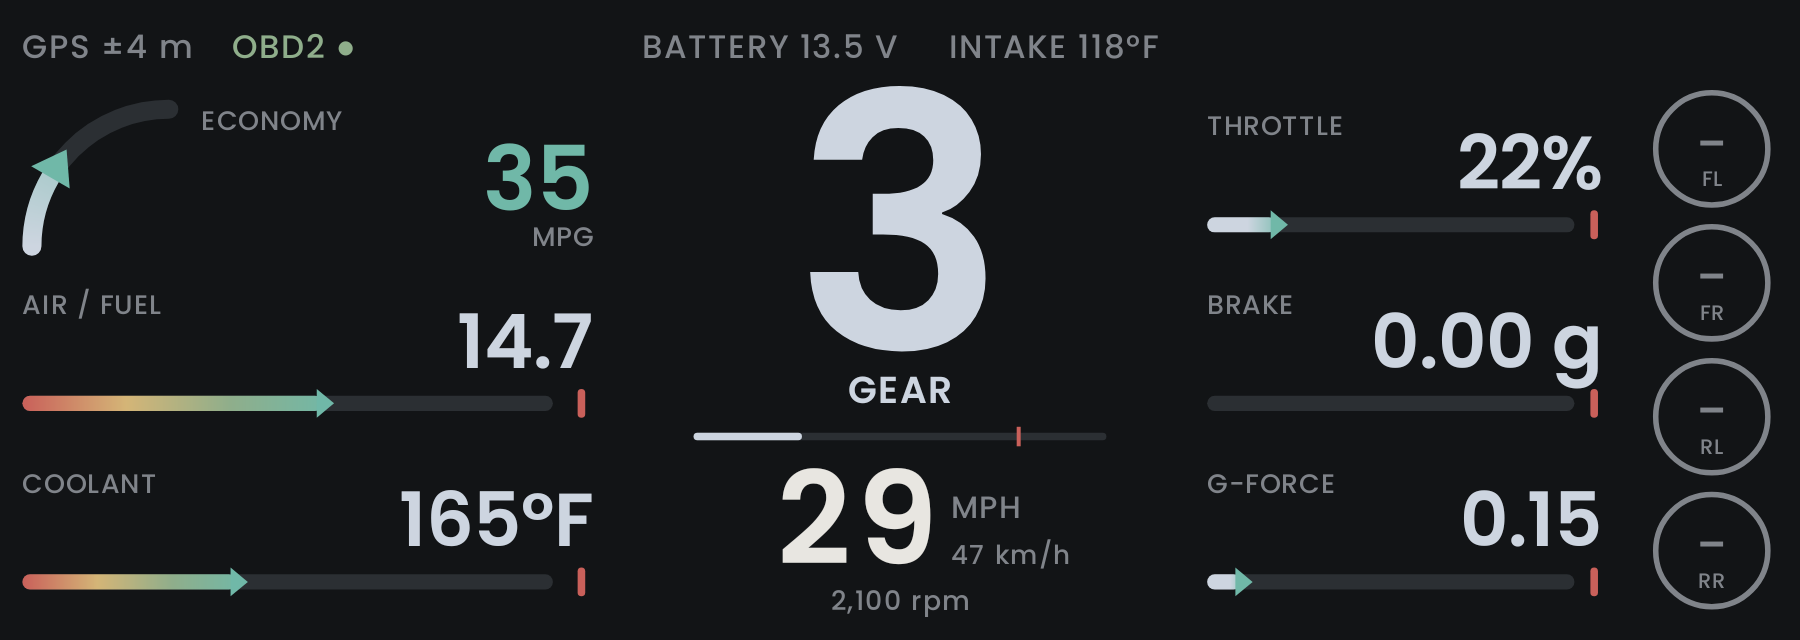
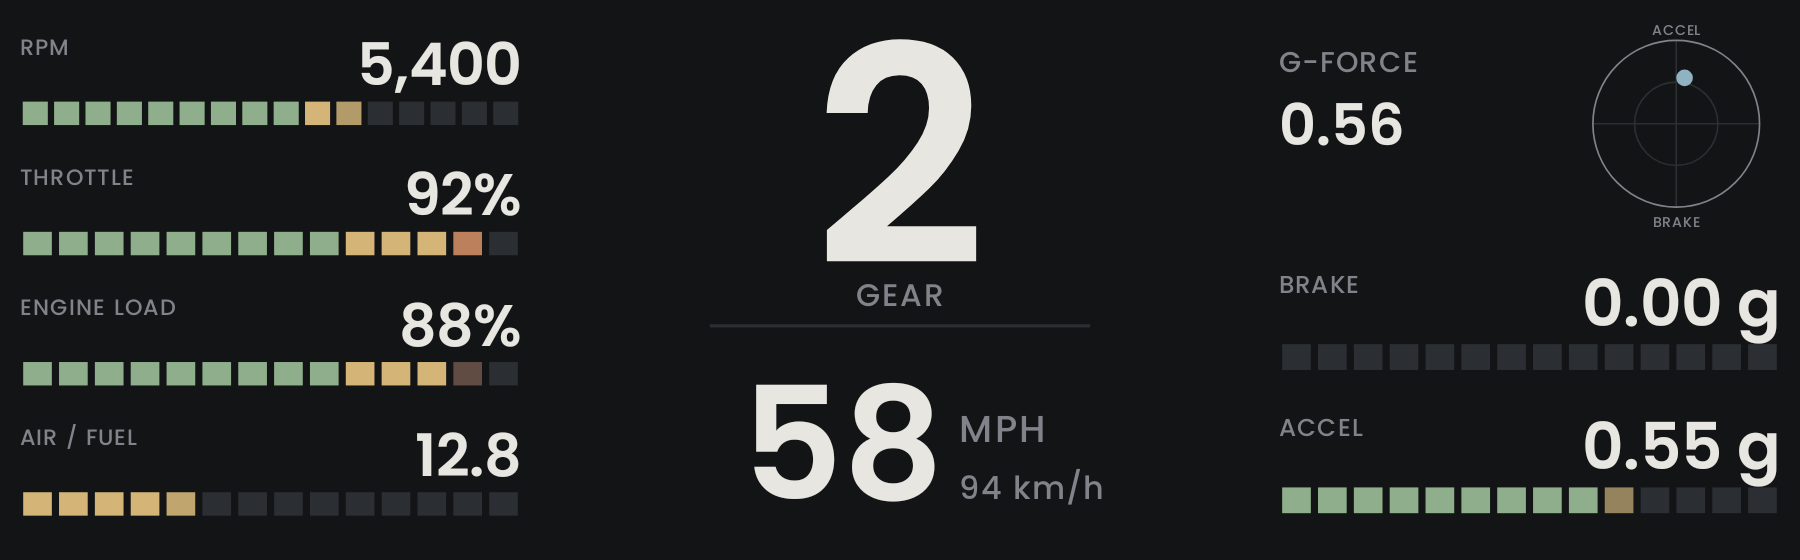
Sport screen: back to the 0.8 bar-stack look, performance readings only
RPM, throttle, engine load and air/fuel on the left; gear and speed in the
middle; g-force, braking and acceleration on the right. Temperatures,
battery, intake air, tires, economy and the status line are gone from it.
The shift strip along the top now shows on Sport too.

Claude-Session: https://claude.ai/code/session_01N4dMX8PfpVf6pnmBC8x2KL

diff --git a/app/src/main/java/io/github/byjoelsamuel/drivesanity/ClusterPainter.kt b/app/src/main/java/io/github/byjoelsamuel/drivesanity/ClusterPainter.kt
@@ -2,13 +2,8 @@ package io.github.byjoelsamuel.drivesanity
 
 import android.content.Context
 import android.graphics.Canvas
-import android.graphics.Color
-import android.graphics.LinearGradient
 import android.graphics.Paint
-import android.graphics.Path
 import android.graphics.RectF
-import android.graphics.Shader
-import android.graphics.SweepGradient
 import android.os.SystemClock
 import io.github.byjoelsamuel.drivesanity.map.MapPainter
 import io.github.byjoelsamuel.drivesanity.nav.Nav
@@ -185,74 +180,39 @@ class ClusterPainter(context: Context) {
     }
 
     // ---------------------------------------------------------------------------------------
-    // Sport: laid out like a supercar's digital cluster. Economy with a small arc, then the air/fuel
-    // ratio and coolant on the left; a huge gear in the middle with a thin rev line under it; throttle,
-    // brake and g-force on the right; and the tires as a column of rings.
+    // Sport: the Gauges look with performance readings only. Engine on the left, gear and speed in
+    // the middle, g-force, braking and acceleration on the right. No temperatures, battery or tires.
     // ---------------------------------------------------------------------------------------
-
-    private val pale = Color.rgb(205, 213, 224)
-    private val teal = Color.rgb(112, 184, 168)
-    private val path = Path()
 
     fun drawSport(c: Canvas, r: RectF, s: Snapshot, units: Units) {
         background(c, r)
         val pad = r.height() * 0.035f
-        val inner = RectF(r.left + pad, r.top + pad, r.right - pad, r.bottom - pad)
-        val h = inner.height()
-        val top = RectF(inner.left, inner.top, inner.right, inner.top + h * 0.07f)
-        status(c, top, s)
-        // Battery and intake air don't get a row here; they sit in the middle of the top line.
-        label(top.height() * 0.78f, Colors.DIM, Paint.Align.CENTER)
-        val volts = s.volts?.let { "%.1f V".format(it) } ?: "–"
-        c.drawText("BATTERY $volts     INTAKE ${tempText(s.intakeC, units)}", top.centerX(), top.bottom - top.height() * 0.15f, text)
-        val body = RectF(inner.left, inner.top + h * 0.1f, inner.right, inner.bottom)
-        val w = body.width()
-        fun col(x0: Float, x1: Float) = RectF(body.left + w * x0, body.top, body.left + w * x1, body.bottom)
-        sportLeft(c, col(0f, 0.325f), s, units)
-        sportCentre(c, col(0.36f, 0.64f), s, units)
-        sportRight(c, col(0.675f, 0.9f), s, units)
-        tireRings(c, col(0.925f, 1f), s, units)
+        val body = RectF(r.left + pad, r.top + pad, r.right - pad, r.bottom - pad)
+        val gap = body.width() * 0.035f
+        val sideW = body.width() * 0.285f
+        val left = RectF(body.left, body.top, body.left + sideW, body.bottom)
+        val right = RectF(body.right - sideW, body.top, body.right, body.bottom)
+        val mid = RectF(left.right + gap, body.top, right.left - gap, body.bottom)
+        sportLeft(c, left, s)
+        sportCentre(c, mid, s, units)
+        sportRight(c, right, s)
     }
 
-    private fun sportLeft(c: Canvas, b: RectF, s: Snapshot, units: Units) {
-        val rowH = b.height() / 3f
-        fun row(i: Int) = RectF(b.left, b.top + i * rowH, b.right, b.top + (i + 1) * rowH)
-        // Economy: a small arc and a big teal number.
-        val e = row(0)
-        val frac = s.fuelLper100?.div(20f) ?: s.fuelLph?.div(6f)
-        val shown = units.economyText(s.fuelLper100, s.fuelLph)
-        val space = shown.indexOf(' ')
-        val num = if (space > 0) shown.substring(0, space) else shown
-        val unit = if (space > 0) shown.substring(space + 1) else ""
-        arc(c, RectF(e.left, e.top + rowH * 0.1f, e.left + rowH * 0.82f, e.top + rowH * 0.1f + rowH * 0.82f), frac)
-        val tx = e.left + rowH * 1.0f
-        label(rowH * 0.15f)
-        c.drawText("ECONOMY", tx, e.top + rowH * 0.27f, text)
-        number(rowH * 0.5f, if (frac == null) Colors.DIM else teal, Paint.Align.RIGHT)
-        c.drawText(num, e.right, e.top + rowH * 0.72f, text)
-        label(rowH * 0.15f, Colors.DIM, Paint.Align.RIGHT)
-        c.drawText(unit.uppercase(), e.right, e.top + rowH * 0.92f, text)
-
-        val afr = if (s.petrol) s.lambda?.let { it * 14.7f } else null
-        statRow(c, row(1), "AIR / FUEL", afr?.let { "%.1f".format(it) } ?: "–", pale, afr?.let { (it - 10f) / 8f }, warm = true)
-        val cool = s.coolantC
-        val coolColor = if (cool != null && cool > 105f) Colors.RED else pale
-        statRow(c, row(2), "COOLANT", tempText(cool, units), coolColor, cool?.let { (it - 40f) / 80f }, warm = true)
-    }
-
-    private fun sportRight(c: Canvas, b: RectF, s: Snapshot, units: Units) {
-        val rowH = b.height() / 3f
-        fun row(i: Int) = RectF(b.left, b.top + i * rowH, b.right, b.top + (i + 1) * rowH)
+    private fun sportLeft(c: Canvas, b: RectF, s: Snapshot) {
+        val rowH = b.height() / 4f
+        fun row(i: Int) = RectF(b.left, b.top + i * rowH, b.right, b.top + (i + 1) * rowH - rowH * 0.1f)
+        val rpm = s.rpm
+        barRow(c, row(0), "RPM", rpm?.let { "%,d".format((it / 50f).roundToInt() * 50) } ?: if (s.obdLive) "–" else "no OBD2", rpm?.div(Revs.MAX), 16, ::rpmColor)
         val thr = s.throttlePct
-        statRow(c, row(0), "THROTTLE", thr?.let { "${it.roundToInt()}%" } ?: "–", pale, thr?.div(100f), warm = false)
-        val g = s.g
-        val brake = g?.brake ?: 0f
-        val brakeColor = if (g == null) pale else Colors.brake(BrakeLevel.of(brake)).let { if (BrakeLevel.of(brake) == BrakeLevel.NONE) pale else it }
-        statRow(c, row(1), "BRAKE", if (g == null) "–" else "%.2f g".format(brake), brakeColor, if (g == null) null else (brake / 0.8f).coerceIn(0f, 1f), warm = false)
-        statRow(c, row(2), "G-FORCE", g?.let { "%.2f".format(it.total) } ?: "–", pale, g?.let { (it.total / 1.2f).coerceIn(0f, 1f) }, warm = false)
+        barRow(c, row(1), "THROTTLE", thr?.let { "${it.roundToInt()}%" } ?: "–", thr?.div(100f), 14, ::rampColor)
+        val load = s.loadPct
+        barRow(c, row(2), "ENGINE LOAD", load?.let { "${it.roundToInt()}%" } ?: "–", load?.div(100f), 14, ::rampColor)
+        // 14.7 is ideal for petrol; below it the engine is running rich, above it lean.
+        val afr = if (s.petrol) s.lambda?.let { it * 14.7f } else null
+        barRow(c, row(3), "AIR / FUEL", afr?.let { "%.1f".format(it) } ?: "–", afr?.let { (it - 10f) / 8f }, 14, { f -> if (f < 0.4f) Colors.SAND else Colors.GOOD })
     }
 
-    /** The gear, huge, with "GEAR" under it, a thin line that is the rev counter, and the speed. */
+    /** The gear, huge, with the speed under it. The gear goes sand near the redline and flashes red at the shift point. */
     private fun sportCentre(c: Canvas, b: RectF, s: Snapshot, units: Units) {
         val h = b.height()
         val cx = b.centerX()
@@ -263,133 +223,35 @@ class ClusterPainter(context: Context) {
             s.gear == null -> Colors.GRID
             level == 2 -> if (flashOn) Colors.RED else Colors.GRID
             level == 1 -> Colors.SAND
-            else -> pale
+            else -> Colors.FG
         }
-        number(h * (if (s.gear == null) 0.3f else 0.66f), gearColor, Paint.Align.CENTER)
-        c.drawText(s.gearText, cx, b.top + h * 0.5f, text)
-        label(h * 0.07f, pale, Paint.Align.CENTER)
-        text.typeface = numbers
-        c.drawText(if (s.gearless) "NO FIXED GEARS" else "GEAR", cx, b.top + h * 0.6f, text)
-
-        // The rev line: fills left to right, sage, then sand, then red at the redline.
-        val line = RectF(b.left + b.width() * 0.08f, b.top + h * 0.655f, b.right - b.width() * 0.08f, b.top + h * 0.655f + max(4f, h * 0.014f))
+        number(h * (if (s.gear == null) 0.3f else 0.58f), gearColor, Paint.Align.CENTER)
+        c.drawText(s.gearText, cx, b.top + h * 0.47f, text)
+        label(h * 0.06f, Colors.DIM, Paint.Align.CENTER)
+        c.drawText(if (s.gearless) "NO FIXED GEARS" else "GEAR", cx, b.top + h * 0.55f, text)
         fill.color = Colors.GRID
-        c.drawRoundRect(line, line.height() / 2, line.height() / 2, fill)
-        val rpm = s.rpm
-        if (rpm != null) {
-            val f = (rpm / Revs.MAX).coerceIn(0f, 1f)
-            fill.color = Colors.rpm(rpm).let { if (level == 0) pale else it }
-            c.drawRoundRect(RectF(line.left, line.top, line.left + line.width() * f, line.bottom), line.height() / 2, line.height() / 2, fill)
-            // Where the redline is, so you can see how far off it is.
-            fill.color = Colors.RED
-            val rx = line.left + line.width() * (Revs.REDLINE / Revs.MAX)
-            c.drawRect(rx - 2f, line.top - line.height() * 0.8f, rx + 2f, line.bottom + line.height() * 0.8f, fill)
-        }
-
-        speedGroup(c, b, s, units, size = h * 0.24f, baseline = b.top + h * 0.9f, centred = true)
-        label(h * 0.05f, Colors.DIM, Paint.Align.CENTER)
-        c.drawText(rpm?.let { "%,d rpm".format((it / 50f).roundToInt() * 50) } ?: "no OBD2", cx, b.top + h * 0.985f, text)
+        c.drawRect(cx - b.width() * 0.3f, b.top + h * 0.585f, cx + b.width() * 0.3f, b.top + h * 0.585f + max(2f, h * 0.006f), fill)
+        speedGroup(c, b, s, units, size = h * 0.3f, baseline = b.top + h * 0.92f, centred = true)
     }
 
-    /**
-     * A small caption, a value in big pale numbers on the right, and a bar under them that ends in an
-     * arrowhead with a short red tick at the far end of the track. [warm] colours the bar from red
-     * through sand to sage; otherwise it runs from pale to teal.
-     */
-    private fun statRow(c: Canvas, b: RectF, name: String, value: String, valueColor: Int, frac: Float?, warm: Boolean) {
+    private fun sportRight(c: Canvas, b: RectF, s: Snapshot) {
         val h = b.height()
-        label(h * 0.15f)
-        c.drawText(name, b.left, b.top + h * 0.3f, text)
-        number(h * 0.42f, if (frac == null) Colors.DIM else valueColor, Paint.Align.RIGHT)
-        c.drawText(value, b.right, b.top + h * 0.6f, text)
+        val scopeSize = min(b.width() * 0.5f, h * 0.4f)
+        val g = s.g
+        label(h * 0.055f)
+        c.drawText("G-FORCE", b.left, b.top + h * 0.1f, text)
+        number(h * 0.11f, if (g == null) Colors.DIM else Colors.FG)
+        c.drawText(g?.let { "%.2f".format(it.total) } ?: "–", b.left, b.top + h * 0.24f, text)
+        scope(c, RectF(b.right - scopeSize, b.top, b.right, b.top + scopeSize), s)
 
-        val thick = h * 0.085f
-        val y = b.top + h * 0.8f
-        val track = RectF(b.left, y - thick / 2, b.right - b.width() * 0.07f, y + thick / 2)
-        fill.shader = null
-        fill.color = Colors.GRID
-        c.drawRoundRect(track, thick / 2, thick / 2, fill)
-        // The red tick at the end of the track.
-        fill.color = Colors.RED
-        val tx = b.right - b.width() * 0.02f
-        c.drawRoundRect(RectF(tx - thick * 0.25f, y - thick * 0.95f, tx + thick * 0.25f, y + thick * 0.95f), thick * 0.25f, thick * 0.25f, fill)
-        if (frac == null) return
-        val len = track.width() * frac.coerceIn(0f, 1f)
-        if (len < thick) return
-        val head = thick * 1.9f
-        val bodyEnd = track.left + len - head * 0.4f
-        val colors = if (warm) intArrayOf(Colors.RED, Colors.SAND, Colors.GOOD, teal) else intArrayOf(pale, pale, teal)
-        fill.shader = LinearGradient(track.left, 0f, track.left + len, 0f, colors, null, Shader.TileMode.CLAMP)
-        c.drawRoundRect(RectF(track.left, track.top, bodyEnd, track.bottom), thick / 2, thick / 2, fill)
-        path.reset()
-        path.moveTo(track.left + len, y)
-        path.lineTo(bodyEnd - head * 0.2f, y - head * 0.5f)
-        path.lineTo(bodyEnd - head * 0.2f, y + head * 0.5f)
-        path.close()
-        fill.color = teal
-        fill.shader = null
-        c.drawPath(path, fill)
-    }
-
-    /** A quarter arc, from the left round to the top, that fills as [frac] goes up. */
-    private fun arc(c: Canvas, box: RectF, frac: Float?) {
-        val thick = box.height() * 0.13f
-        stroke.strokeWidth = thick
-        stroke.strokeCap = Paint.Cap.ROUND
-        val oval = RectF(box.left + thick / 2, box.top + thick / 2, box.right * 2 - box.left - thick / 2, box.bottom * 2 - box.top - thick / 2)
-        stroke.shader = null
-        stroke.color = Colors.GRID
-        c.drawArc(oval, 180f, 90f, false, stroke)
-        if (frac != null && frac > 0.02f) {
-            val sweep = 90f * frac.coerceIn(0f, 1f)
-            val cx = oval.centerX()
-            val cy = oval.centerY()
-            stroke.shader = SweepGradient(cx, cy, intArrayOf(pale, pale, teal, teal), floatArrayOf(0f, 0.5f, 0.75f, 1f))
-            c.drawArc(oval, 180f, sweep, false, stroke)
-            stroke.shader = null
-            // The arrowhead at the end of the arc.
-            val rad = oval.width() / 2
-            val a = Math.toRadians((180f + sweep).toDouble())
-            val px = cx + rad * kotlin.math.cos(a).toFloat()
-            val py = cy + rad * kotlin.math.sin(a).toFloat()
-            val tx = -kotlin.math.sin(a).toFloat()
-            val ty = kotlin.math.cos(a).toFloat()
-            val nx = kotlin.math.cos(a).toFloat()
-            val ny = kotlin.math.sin(a).toFloat()
-            val hs = thick * 1.3f
-            path.reset()
-            path.moveTo(px + tx * hs * 1.3f, py + ty * hs * 1.3f)
-            path.lineTo(px + nx * hs * 0.9f, py + ny * hs * 0.9f)
-            path.lineTo(px - nx * hs * 0.9f, py - ny * hs * 0.9f)
-            path.close()
-            fill.color = teal
-            c.drawPath(path, fill)
-        }
-        stroke.strokeCap = Paint.Cap.BUTT
-    }
-
-    /** The four tire pressures as a column of rings, like the warning lamps down the side of the cluster. */
-    private fun tireRings(c: Canvas, b: RectF, s: Snapshot, units: Units) {
-        val cell = b.height() / 4f
-        val d = min(b.width(), cell * 0.92f)
-        for (i in 0 until 4) {
-            val psi = s.tires.getOrNull(i)
-            val color = when {
-                psi == null -> Colors.DIM
-                Tpms.level(psi) == 2 -> Colors.RED
-                Tpms.level(psi) == 1 -> Colors.SAND
-                else -> teal
-            }
-            val cx = b.centerX()
-            val cy = b.top + cell * (i + 0.5f)
-            stroke.strokeWidth = max(2f, d * 0.045f)
-            stroke.color = color
-            c.drawCircle(cx, cy, d / 2 - stroke.strokeWidth, stroke)
-            number(d * 0.34f, if (psi == null) Colors.DIM else pale, Paint.Align.CENTER)
-            c.drawText(Tpms.text(psi, units), cx, cy + d * 0.07f, text)
-            label(d * 0.17f, Colors.DIM, Paint.Align.CENTER)
-            c.drawText(Tpms.NAMES[i], cx, cy + d * 0.3f, text)
-        }
+        val rowsTop = b.top + scopeSize + h * 0.05f
+        val rowH = (b.bottom - rowsTop) / 2f
+        fun row(i: Int) = RectF(b.left, rowsTop + i * rowH, b.right, rowsTop + (i + 1) * rowH - rowH * 0.1f)
+        val brake = g?.brake ?: 0f
+        val brakeColor = Colors.brake(BrakeLevel.of(brake)).let { if (BrakeLevel.of(brake) == BrakeLevel.NONE) Colors.GOOD else it }
+        barRow(c, row(0), "BRAKE", if (g == null) "–" else "%.2f g".format(brake), if (g == null) null else (brake / 0.8f).coerceIn(0f, 1f), 14, { f -> if (f < 0.3f) Colors.GOOD else brakeColor })
+        val accel = g?.let { maxOf(0f, it.lon) } ?: 0f
+        barRow(c, row(1), "ACCEL", if (g == null) "–" else "%.2f g".format(accel), if (g == null) null else (accel / 0.8f).coerceIn(0f, 1f), 14, ::rampColor)
     }
 
     /** A caption and a big value on one line, and a row of bar segments under them. */

diff --git a/app/src/main/java/io/github/byjoelsamuel/drivesanity/DashPainter.kt b/app/src/main/java/io/github/byjoelsamuel/drivesanity/DashPainter.kt
@@ -112,6 +112,7 @@ class DashPainter(context: Context) {
         return s.copy(
             rpm = smooth.ease("rpm", s.rpm, 0.07f),
             throttlePct = smooth.ease("pedal", s.throttlePct, 0.07f),
+            loadPct = smooth.ease("load", s.loadPct, 0.15f),
             coolantC = smooth.ease("coolant", s.coolantC, 0.5f),
             intakeC = smooth.ease("intake", s.intakeC, 0.5f),
             volts = smooth.ease("volts", s.volts, 0.5f),
@@ -125,8 +126,8 @@ class DashPainter(context: Context) {
 
     /** The shift light along the top edge, and the most important warning as a flashing banner. */
     private fun drawAlerts(c: Canvas, r: RectF, s: Snapshot, units: Units, layout: Prefs.Layout) {
-        // The Sport screen has shift lights of its own, and Retro keeps to its single colour.
-        if (layout != Prefs.Layout.SPORT && layout != Prefs.Layout.RETRO) {
+        // Retro keeps to its single colour, so it has no coloured strip.
+        if (layout != Prefs.Layout.RETRO) {
             val level = Alerts.shiftLevel(s.rpm, Revs.REDLINE)
             if (level == 1 || (level == 2 && (Alerts.now() / 100) % 2 == 0L)) {
                 fill.color = if (level == 2) Colors.RED else Colors.SAND

diff --git a/app/src/main/java/io/github/byjoelsamuel/drivesanity/DriveEngine.kt b/app/src/main/java/io/github/byjoelsamuel/drivesanity/DriveEngine.kt
@@ -50,6 +50,8 @@ data class Snapshot(
     /** Learned from speed and RPM; null until it knows. */
     val gear: Int? = null,
     val throttlePct: Float? = null,
+    /** Engine load, 0–100: how hard the engine is working. */
+    val loadPct: Float? = null,
     /** Tire pressures in PSI (front left, front right, rear left, rear right); null until the car can tell us. */
     val tires: List<Float?> = listOf(null, null, null, null),
     /** The car has no fixed gears (a CVT). */
@@ -193,6 +195,7 @@ object DriveEngine : SensorEventListener, LocationListener {
         headingDeg = heading,
         gear = gear,
         throttlePct = Obd.pedalPct,
+        loadPct = Obd.loadPct,
         tires = Obd.tirePsi,
         gearless = !profile.hasGears,
         lambda = Obd.lambda,

diff --git a/README.md b/README.md
@@ -108,9 +108,12 @@ brake are pressed, and coolant, battery and intake air.
 
 ![The map screen, with sample data](docs/map-screen.png)
 
-**Sport**: the picture at the top. A cluster layout with a huge gear, a thin rev line that
-turns red at the redline, economy, air/fuel and coolant on the left, throttle, brake and
-g-force on the right, and tire pressures in rings.
+**Sport**: performance readings only. RPM, throttle, engine load and the air/fuel ratio on the
+left, a huge gear and the speed in the middle, and g-force, braking and acceleration on the
+right. No temperatures, battery or tires. It's the top-row button **SPORT** in the car, and
+**Exit Sport** takes you back.
+
+![The Sport screen, with sample data](docs/sport-screen.png)
 
 **Retro**: everything in Saab green, after early-2000s dashboards.
 
@@ -201,9 +204,9 @@ or MPG, and as litres or gallons per hour when you're stopped. The trip total is
 
 ## Shift light and alerts
 
-- **Shift light:** on the Sport screen the rev line under the gear turns sand at 92% of the
-  redline, and at 98.5% the line and the gear flash red. Other screens get a thin strip along
-  the top.
+- **Shift light:** the gear turns sand at 92% of the redline, and at 98.5% it flashes red. All
+  screens except Retro also get a thin strip along the top that does the same. The redline is
+  set per car in Setup.
 - **Alerts:** a banner for a hot engine (above 108 °C / 226 °F), low battery (under 11.8 V, or
   12.5 V with the engine running), a flat tire (under 27 psi), low fuel when the car reports
   it, and going 5 mph (8 km/h) over the posted limit.
